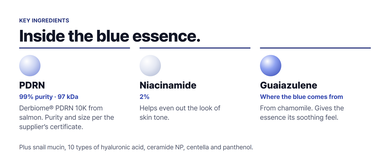
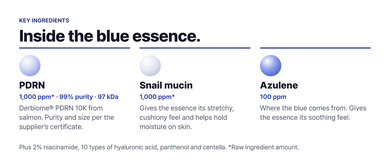
HYDROVUSTER 마스크: 3대 성분(PDRN·스네일 뮤신·아줄렌)으로 교체, A1 후킹 3안 페이지 추가

diff --git a/hydrovuster-mask/index.html b/hydrovuster-mask/index.html
@@ -106,7 +106,7 @@
  <div class="mainimg rel box"><span class="pin" style="left:8px;top:8px"><b>①</b>메인 · 흰 배경 실물</span><img src="assets/pouch.png"></div>
  <div class="cen">
   <div class="rel box" style="padding:2px"><span class="pin" style="right:0;top:-14px"><b>T</b>상품명 200자 이내</span>
-   <h1>PYDERIN HYDROVUSTER PDRN SOS Hyal Soothing Mask, Cooling Sheet Mask with PDRN, Niacinamide &amp; Guaiazulene for Hot, Stressed-Looking Skin, Korean Skincare, 7 Sheets</h1></div>
+   <h1>PYDERIN HYDROVUSTER PDRN SOS Hyal Soothing Mask, Cooling Sheet Mask with PDRN, Snail Mucin &amp; Azulene for Hot, Stressed-Looking Skin, Korean Skincare, 7 Sheets</h1></div>
   <div class="lnk">Visit the PYDERIN Store</div>
   <div style="color:#565959;font-size:14px">New to Amazon</div>
   <hr>
@@ -116,8 +116,8 @@
   <div class="rel box" style="padding:2px"><span class="pin" style="right:0;top:-14px"><b>B</b>글머리표 5줄</span>
   <h2>About this item</h2><ul>
    <li>CLINICALLY TESTED COOLING: In a clinical test, heat-warmed skin was 19.7°F (10.9°C) cooler after one 20-minute use, vs. 7.2°F (4.0°C) for untreated skin. Results are temporary.</li>
-   <li>PDRN + 2% NIACINAMIDE: Made with Derbiome® PDRN 10K (99% purity, 97 kDa), niacinamide, snail mucin and 10 types of hyaluronic acid.</li>
-   <li>COOLS AND COMFORTS: Guaiazulene, from chamomile, gives the essence its blue color and a soothing feel after a day in the sun, a workout or a facial.</li>
+   <li>PDRN, SNAIL MUCIN AND AZULENE: Three core ingredients: Derbiome® PDRN 10K (99% purity, 97 kDa) and snail mucin at 1,000 ppm each (raw ingredient amounts), plus 100 ppm azulene. Also with 2% niacinamide and 10 types of hyaluronic acid.</li>
+   <li>COOLS AND COMFORTS: Azulene gives the essence its blue color and a soothing feel after a day in the sun, a workout or a facial.</li>
    <li>INDIGO AND OAK FIBER SHEET: A one-piece, full-face sheet soaked in 1.13 oz (32 g) of essence. It stays put for the full 20 minutes.</li>
    <li>GENTLE, FROM KOREAN PHARMACIES: Dermatologist-tested and non-irritating in a 24-hour patch test. No added fragrance. PYDERIN is sold in 2,000+ pharmacies across Korea.</li>
   </ul></div>
@@ -130,7 +130,7 @@
  <div class="row">
   <div><div class="gt"><span class="num">1</span><img src="assets/pouch.png" style="object-fit:contain;padding:10px"></div><div class="gtx">메인. 흰 배경 실물 파우치(규칙상 글자·연출 불가)</div></div>
   <div><div class="gt"><span class="num">2</span><img src="assets/th01_after.jpg"><div class="cap">19.7°F cooler<br>after one use</div></div><div class="gtx">증거. 열화상 + 숫자 (A2 축약)</div></div>
-  <div><div class="gt navy"><span class="num">3</span><b>PDRN<br>Niacinamide 2%<br>Guaiazulene</b></div><div class="gtx">성분 3개 (A4 축약)</div></div>
+  <div><div class="gt navy"><span class="num">3</span><b>PDRN<br>Snail mucin<br>Azulene</b></div><div class="gtx">성분 3개 (A4 축약)</div></div>
   <div><div class="gt"><span class="num">4</span><img src="assets/sheet-hand.jpg"><div class="cap">Indigo &amp; oak<br>fiber sheet</div></div><div class="gtx">시트 질감 (A5 축약)</div></div>
   <div><div class="gt"><span class="num">5</span><img src="assets/face-peel.jpg"><div class="cap">For skin that<br>runs hot</div></div><div class="gtx">사용 상황 (A3 축약)</div></div>
   <div><div class="gt navy"><span class="num">6</span><b style="font-size:40px">0.00</b><span style="font-size:13px;margin-top:6px">irritation score<br>Dermatologist-tested</span></div><div class="gtx">저자극 (A6 축약)</div></div>
@@ -162,7 +162,7 @@
 </div>
 <div class="cmpw rel"><span class="pin" style="left:12px;top:-14px"><b>C</b>비교표 — A+ 마지막 칸, 피더린 아마존 상품 8개 전부</span>
  <h3>Compare PYDERIN PDRN skincare</h3>
- <table class="cmp2"><tr><th></th><td class=this><em>This item</em><img src="assets/pouch.png" style="padding:12px 30px"><span class="ln" style="color:#2f44b0">HYDROVUSTER</span><a>PDRN SOS Hyal Soothing Mask</a></td><td><em class=sp></em><img src="assets/cmp/hv-serum.jpg"><span class="ln" style="color:#2f44b0">HYDROVUSTER</span><a>PDRN SOS Derma Soothing Serum</a></td><td><em class=sp></em><img src="assets/cmp/hv-cream.jpg"><span class="ln" style="color:#2f44b0">HYDROVUSTER</span><a>PDRN Re-Barrier Soothing Cream</a></td><td><em class=sp></em><img src="assets/cmp/lift-toner.jpg"><span class="ln" style="color:#23307a">PDRN Lift</span><a>PDRN Lift Toner</a></td><td><em class=sp></em><img src="assets/cmp/lift-ampoule.jpg"><span class="ln" style="color:#23307a">PDRN Lift</span><a>PDRN Lift Fit Ampoule</a></td><td><em class=sp></em><img src="assets/cmp/lift-cream.jpg"><span class="ln" style="color:#23307a">PDRN Lift</span><a>PDRN Lift Cream</a></td><td><em class=sp></em><img src="assets/cmp/lift-mask.jpg"><span class="ln" style="color:#23307a">PDRN Lift</span><a>PDRN Lift Facial Mask</a></td><td><em class=sp></em><img src="assets/cmp/rejuvuster.jpg"><span class="ln" style="color:#b0202d">REJUVUSTER</span><a>REJUVUSTER Cream+</a></td></tr><tr><th>Use</th><td class=this>Cooling sheet mask, when skin feels hot</td><td>Daily soothing serum</td><td>Light soothing cream</td><td>Step 1: hydrates and preps</td><td>Step 2: lightweight serum</td><td>Step 3: the signature firming cream</td><td>Weekly sheet mask</td><td>Rich, buttery cream that hydrates</td></tr><tr><th>Size</th><td class=this>7 sheets, 1.13 oz each</td><td>1.35 fl oz (40 ml)</td><td>2.03 fl oz (60 ml)</td><td>3.38 fl oz (100 ml)</td><td>1.01 fl oz (30 ml)</td><td>1.01 fl oz (30 ml)</td><td>5 sheets</td><td>0.85 fl oz (25 ml)</td></tr><tr><th>PDRN*</th><td class=this>1,000 ppm</td><td>10,000 ppm</td><td>5,000 ppm</td><td>20,000 ppm</td><td>20,000 ppm</td><td>20,000 ppm</td><td>1,000 ppm</td><td>10,000 ppm</td></tr><tr><th>Also with</th><td class=this>2% niacinamide<br>Guaiazulene</td><td>Snail mucin<br>Guaiazulene</td><td>Panthenol<br>Guaiazulene</td><td></td><td></td><td></td><td></td><td>2% niacinamide<br>Centella</td></tr><tr><th></th><td class=this><span class="atc">Add to Cart</span></td><td><span class="atc">Add to Cart</span></td><td><span class="atc">Add to Cart</span></td><td><span class="atc">Add to Cart</span></td><td><span class="atc">Add to Cart</span></td><td><span class="atc">Add to Cart</span></td><td><span class="atc">Add to Cart</span></td><td><span class="atc">Add to Cart</span></td></tr></table>
+ <table class="cmp2"><tr><th></th><td class=this><em>This item</em><img src="assets/pouch.png" style="padding:12px 30px"><span class="ln" style="color:#2f44b0">HYDROVUSTER</span><a>PDRN SOS Hyal Soothing Mask</a></td><td><em class=sp></em><img src="assets/cmp/hv-serum.jpg"><span class="ln" style="color:#2f44b0">HYDROVUSTER</span><a>PDRN SOS Derma Soothing Serum</a></td><td><em class=sp></em><img src="assets/cmp/hv-cream.jpg"><span class="ln" style="color:#2f44b0">HYDROVUSTER</span><a>PDRN Re-Barrier Soothing Cream</a></td><td><em class=sp></em><img src="assets/cmp/lift-toner.jpg"><span class="ln" style="color:#23307a">PDRN Lift</span><a>PDRN Lift Toner</a></td><td><em class=sp></em><img src="assets/cmp/lift-ampoule.jpg"><span class="ln" style="color:#23307a">PDRN Lift</span><a>PDRN Lift Fit Ampoule</a></td><td><em class=sp></em><img src="assets/cmp/lift-cream.jpg"><span class="ln" style="color:#23307a">PDRN Lift</span><a>PDRN Lift Cream</a></td><td><em class=sp></em><img src="assets/cmp/lift-mask.jpg"><span class="ln" style="color:#23307a">PDRN Lift</span><a>PDRN Lift Facial Mask</a></td><td><em class=sp></em><img src="assets/cmp/rejuvuster.jpg"><span class="ln" style="color:#b0202d">REJUVUSTER</span><a>REJUVUSTER Cream+</a></td></tr><tr><th>Use</th><td class=this>Cooling sheet mask, when skin feels hot</td><td>Daily soothing serum</td><td>Light soothing cream</td><td>Step 1: hydrates and preps</td><td>Step 2: lightweight serum</td><td>Step 3: the signature firming cream</td><td>Weekly sheet mask</td><td>Rich, buttery cream that hydrates</td></tr><tr><th>Size</th><td class=this>7 sheets, 1.13 oz each</td><td>1.35 fl oz (40 ml)</td><td>2.03 fl oz (60 ml)</td><td>3.38 fl oz (100 ml)</td><td>1.01 fl oz (30 ml)</td><td>1.01 fl oz (30 ml)</td><td>5 sheets</td><td>0.85 fl oz (25 ml)</td></tr><tr><th>PDRN*</th><td class=this>1,000 ppm</td><td>10,000 ppm</td><td>5,000 ppm</td><td>20,000 ppm</td><td>20,000 ppm</td><td>20,000 ppm</td><td>1,000 ppm</td><td>10,000 ppm</td></tr><tr><th>Also with</th><td class=this>Snail mucin<br>Azulene<br>2% niacinamide</td><td>Snail mucin<br>Guaiazulene</td><td>Panthenol<br>Guaiazulene</td><td></td><td></td><td></td><td></td><td>2% niacinamide<br>Centella</td></tr><tr><th></th><td class=this><span class="atc">Add to Cart</span></td><td><span class="atc">Add to Cart</span></td><td><span class="atc">Add to Cart</span></td><td><span class="atc">Add to Cart</span></td><td><span class="atc">Add to Cart</span></td><td><span class="atc">Add to Cart</span></td><td><span class="atc">Add to Cart</span></td><td><span class="atc">Add to Cart</span></td></tr></table>
  <p class="cf">*Derbiome® PDRN 10K raw ingredient per package or current listing. Blank = not listed here.</p>
 </div>
 <div class="sec" style="margin-top:20px"><h2>Customer reviews</h2></div>

diff --git a/hydrovuster-mask/storyboard.html b/hydrovuster-mask/storyboard.html
@@ -51,7 +51,7 @@ table{width:100%;border-collapse:collapse;background:#fff;font-size:13.5px}th,td
 <tr><td>01 첫 화면</td><td>이게 뭐야?</td><td>달아오른 피부용 파란 진정 마스크</td><td>실제 파우치</td></tr>
 <tr><td>02 증거</td><td>정말 시원해져?</td><td>20분 후 −19.7°F (−10.9°C)</td><td>KIDS-BFJ037-BNK 열화상</td></tr>
 <tr><td>03 상황</td><td>나한테 맞아?</td><td>햇볕·관리 후·환절기·운동 후</td><td>국내 상세 SOS 시나리오</td></tr>
-<tr><td>04 성분</td><td>뭐가 들었어?</td><td>PDRN · 나이아신아마이드 2% · 구아이아줄렌</td><td>수출용 전성분표·원료 증명</td></tr>
+<tr><td>04 성분</td><td>뭐가 들었어?</td><td>PDRN 1,000 · 스네일 뮤신 1,000 · 아줄렌 100ppm (+나이아신아마이드 2%)</td><td>수출용 전성분표·원료 증명</td></tr>
 <tr><td>05 시트</td><td>왜 파래? 잘 붙어?</td><td>청대·참나무 섬유, 일체형, 에센스 32 g</td><td>원단 MSDS·포장</td></tr>
 <tr><td>06 저자극·만족</td><td>자극은 없어?</td><td>자극 0.00, 쿨링·밀착 만족 100%</td><td>KIDS-BFG001-BNK 영문·BFJ037 설문</td></tr>
 <tr><td>07 사용법</td><td>어떻게 써?</td><td>4단계, 20분, 일주일 7매</td><td>국내 상세·FAQ</td></tr>
@@ -101,6 +101,7 @@ table{width:100%;border-collapse:collapse;background:#fff;font-size:13.5px}th,td
 <li class="o"><b>11/17 미국 영어 검수</b>(사장님 "뉴욕 언어 기준으로 맞춰서"): 01 제목 "Blue calm for heated skin" → "Cool down hot, stressed skin."(heated는 미국에서 화난·가열된으로 읽힘), 상품명 Heated → Hot, 성분 칩 "1,000 ppm Derbiome® PDRN 10K"·"2% Niacinamide"(숫자 앞: 10K와 1,000이 부딪혀 보이던 문제), 03 "After sun"→"After a day in the sun"(애프터선 제품명처럼 읽힘), "Long days in a face mask"→"After a workout"(코로나 시기 표현)</li>
 <li class="o"><b>11/17 간격 수정</b>(사장님 "공간이 꽉 차 있잖아"): 실측 02 캡션-각주 −4px → 57px(열화상 높이 442→384), 01 각주가 파우치 밑을 지나며 8px → 각주를 왼쪽 글 영역 안으로(칩-각주 약 51px), 03 아래 빈 공간 176px → 글 덩어리를 세로 가운데로(120px). 꼬리표 자간 .02em, 성적서 전체 보이게. 측정 _gap_check.py</li>
 <li class="o"><b>11/17 영어 전체 미국식 정리·줄바꿈 검사</b>(사장님 "뉴욕식으로 다 바꿔, 어색한 거 다 빼고"): 7칸·상품명·글머리표·썸네일·브랜드 스토리 문안 교체(글머리표 긴 대시 → 콜론, 글머리표 안 별표 삭제하고 Results are temporary를 본문에, "Seasonal shifts"→"Weather changes", "−19.7°F skin temperature"→"19.7°F cooler skin" 등). 줄 끝 한 단어 방지(text-wrap pretty·balance), 숫자-단위 붙임. 검사: _copy_check.py 0건, _gap_check.py 겹침 0. 이전본 _bak_20261117/*_before_copy.html</li>
+<li class="o"><b>11/17 3대 성분</b>(사장님 "스네일 뮤신 소구, 이 세 개가 메인 성분"): 국내 상세 기준 PDRN·스네일 뮤신·아줄렌으로 교체. 전성분표 대조 — PDRN 원료 0.1%(1,000ppm), 발효 달팽이점액여과물 원료 0.1%(1,000ppm, 실제 달팽이점액 0.01%), 소듐구아이아줄렌설포네이트 0.01%(100ppm). 영문 이름은 10/27 파우치 변경대로 Azulene. "카모마일 유래"는 원료 근거 없어 뺌. 나이아신아마이드 2%는 Plus 줄로. A1 후킹 3안 a1-hooks.html(판정 대기)</li>
 <li class="x">남은 아쉬운 점: 03·05 사진은 AI로 추정되는 국내 상세 컷(시트가 보이는 제품 컷), 01 파우치는 한글판, 폰 폭 본문 약 7px, 01 제목 "heated skin" 표현은 선택 대기</li>
 <li class="o">숫자: −10.9°C·−4.0°C·21명·34–65세·0.00·32명·100%·나이아신아마이드 2%·32 g·7매 — 원문 PDF/전성분표와 대조 일치</li>
 <li class="o">국내 상세 오류 미반영: 10,000 ppm, "유스 부스팅 세럼", 하이브로부스터, 의학적 보호막, 경쟁 비교표, 비건·생분해</li>

diff --git a/hydrovuster-mask/hooks.html b/hydrovuster-mask/hooks.html
@@ -1,0 +1,8 @@
+<!doctype html><html lang="ko"><head><meta charset="utf-8"><meta name="viewport" content="width=device-width,initial-scale=1"><title>A1 후킹 3안</title>
+<link rel="stylesheet" href="https://cdn.jsdelivr.net/gh/orioncactus/pretendard@v1.3.9/dist/web/static/pretendard.min.css">
+<style>body{margin:0;background:#f3f4f6;font-family:Pretendard,sans-serif;color:#121626}main{max-width:1464px;margin:0 auto;padding:28px 16px 60px}h1{font-size:24px;margin:0 0 6px}p.d{color:#4c5268;margin:0 0 24px;font-size:15px}section{margin:0 0 34px}h2{font-size:19px;margin:0 0 10px}h2 span{color:#2f44b0}img{width:100%;display:block;border-radius:6px;box-shadow:0 1px 4px rgba(0,0,0,.12)}</style></head><body><main>
+<h1>A+ 첫 화면(A1) 후킹 3안 — 판정 대기</h1><p class="d">셋 다 같은 시험 근거(피부 온도 시험 21명)와 같은 3대 성분 칩. 바뀐 건 제목·부제·결과 상자뿐입니다.</p>
+<section><h2><span>A안</span> 숫자로 후킹 — 시험 결과가 제목</h2><img src="HA.jpg"></section>
+<section><h2><span>B안</span> 고민으로 후킹 — 고객 상황을 질문으로</h2><img src="HB.jpg"></section>
+<section><h2><span>C안</span> 결과로 후킹 — 지금 안</h2><img src="HC.jpg"></section>
+</main></body></html>
